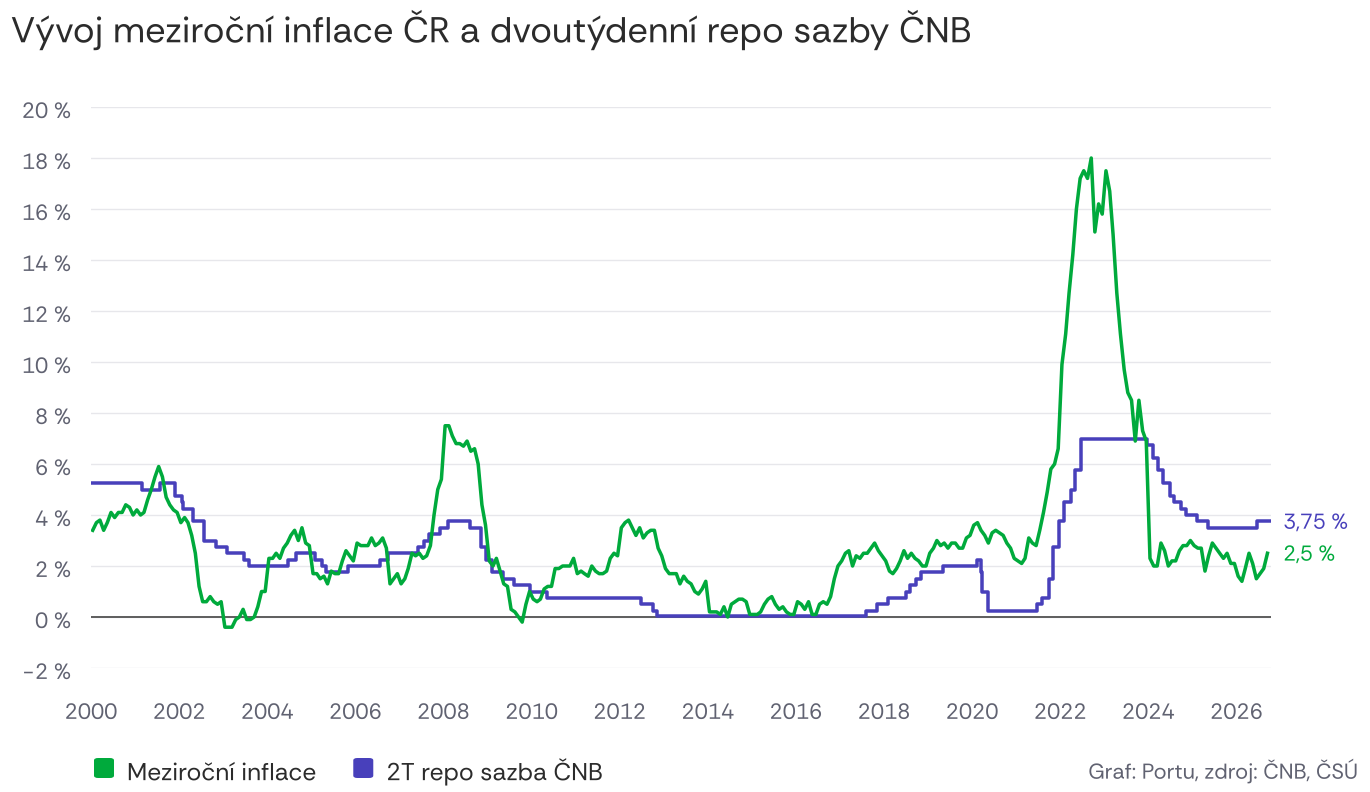
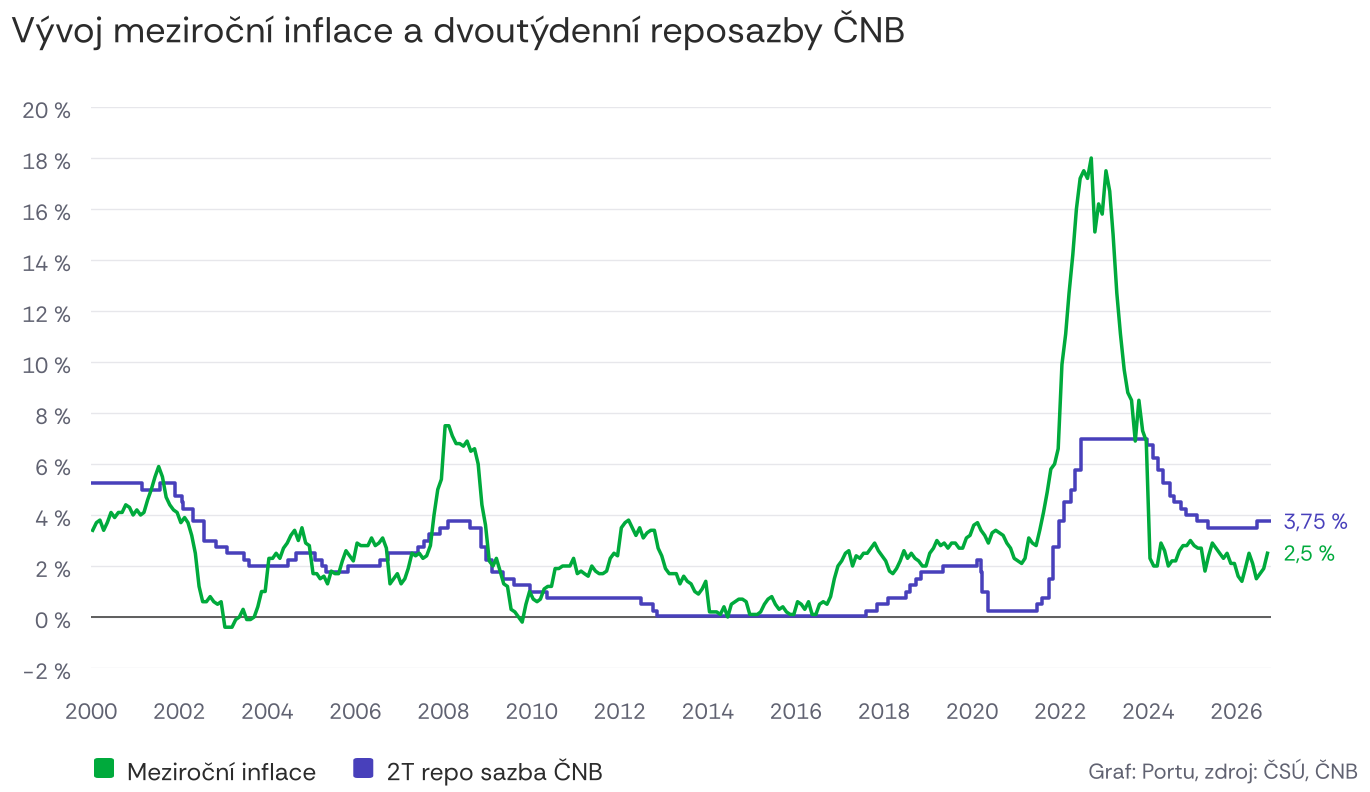
Graf inflace a repo sazby ČNB: nadpis a zdroj podle zadání, styl jako graf SOX
Claude-Session: https://claude.ai/code/session_01A8r6cxYv4z3RaLJthvcQAS

Changed region(s): [[0.2759, 0.0, 0.7051, 0.0606], [0.9197, 0.9394, 1.0, 1.0]]

diff --git a/vystupy/grafy/2026-10-16-inflace-a-repo-sazba.py b/vystupy/grafy/2026-10-16-inflace-a-repo-sazba.py
@@ -41,7 +41,7 @@ fig = pg.spojnicovy(
     osa_y=(-2, 20, 2), jednotka="%", barvy=[pg.ZELENA, pg.FIALOVA],
     format_x="%Y", interval_let=2, rozsah_x=(ZACATEK, KONEC),
     schody=("2T repo sazba ČNB",), popisky_konec=True,
-    zdroj="Graf: Portu, zdroj: ČNB, ČSÚ",
-    nadpis="Vývoj meziroční inflace ČR a dvoutýdenní repo sazby ČNB",
+    zdroj="Graf: Portu, zdroj: ČSÚ, ČNB",
+    nadpis="Vývoj meziroční inflace a dvoutýdenní reposazby ČNB",
 )
 pg.uloz(fig, ZAKLAD + ".png")
